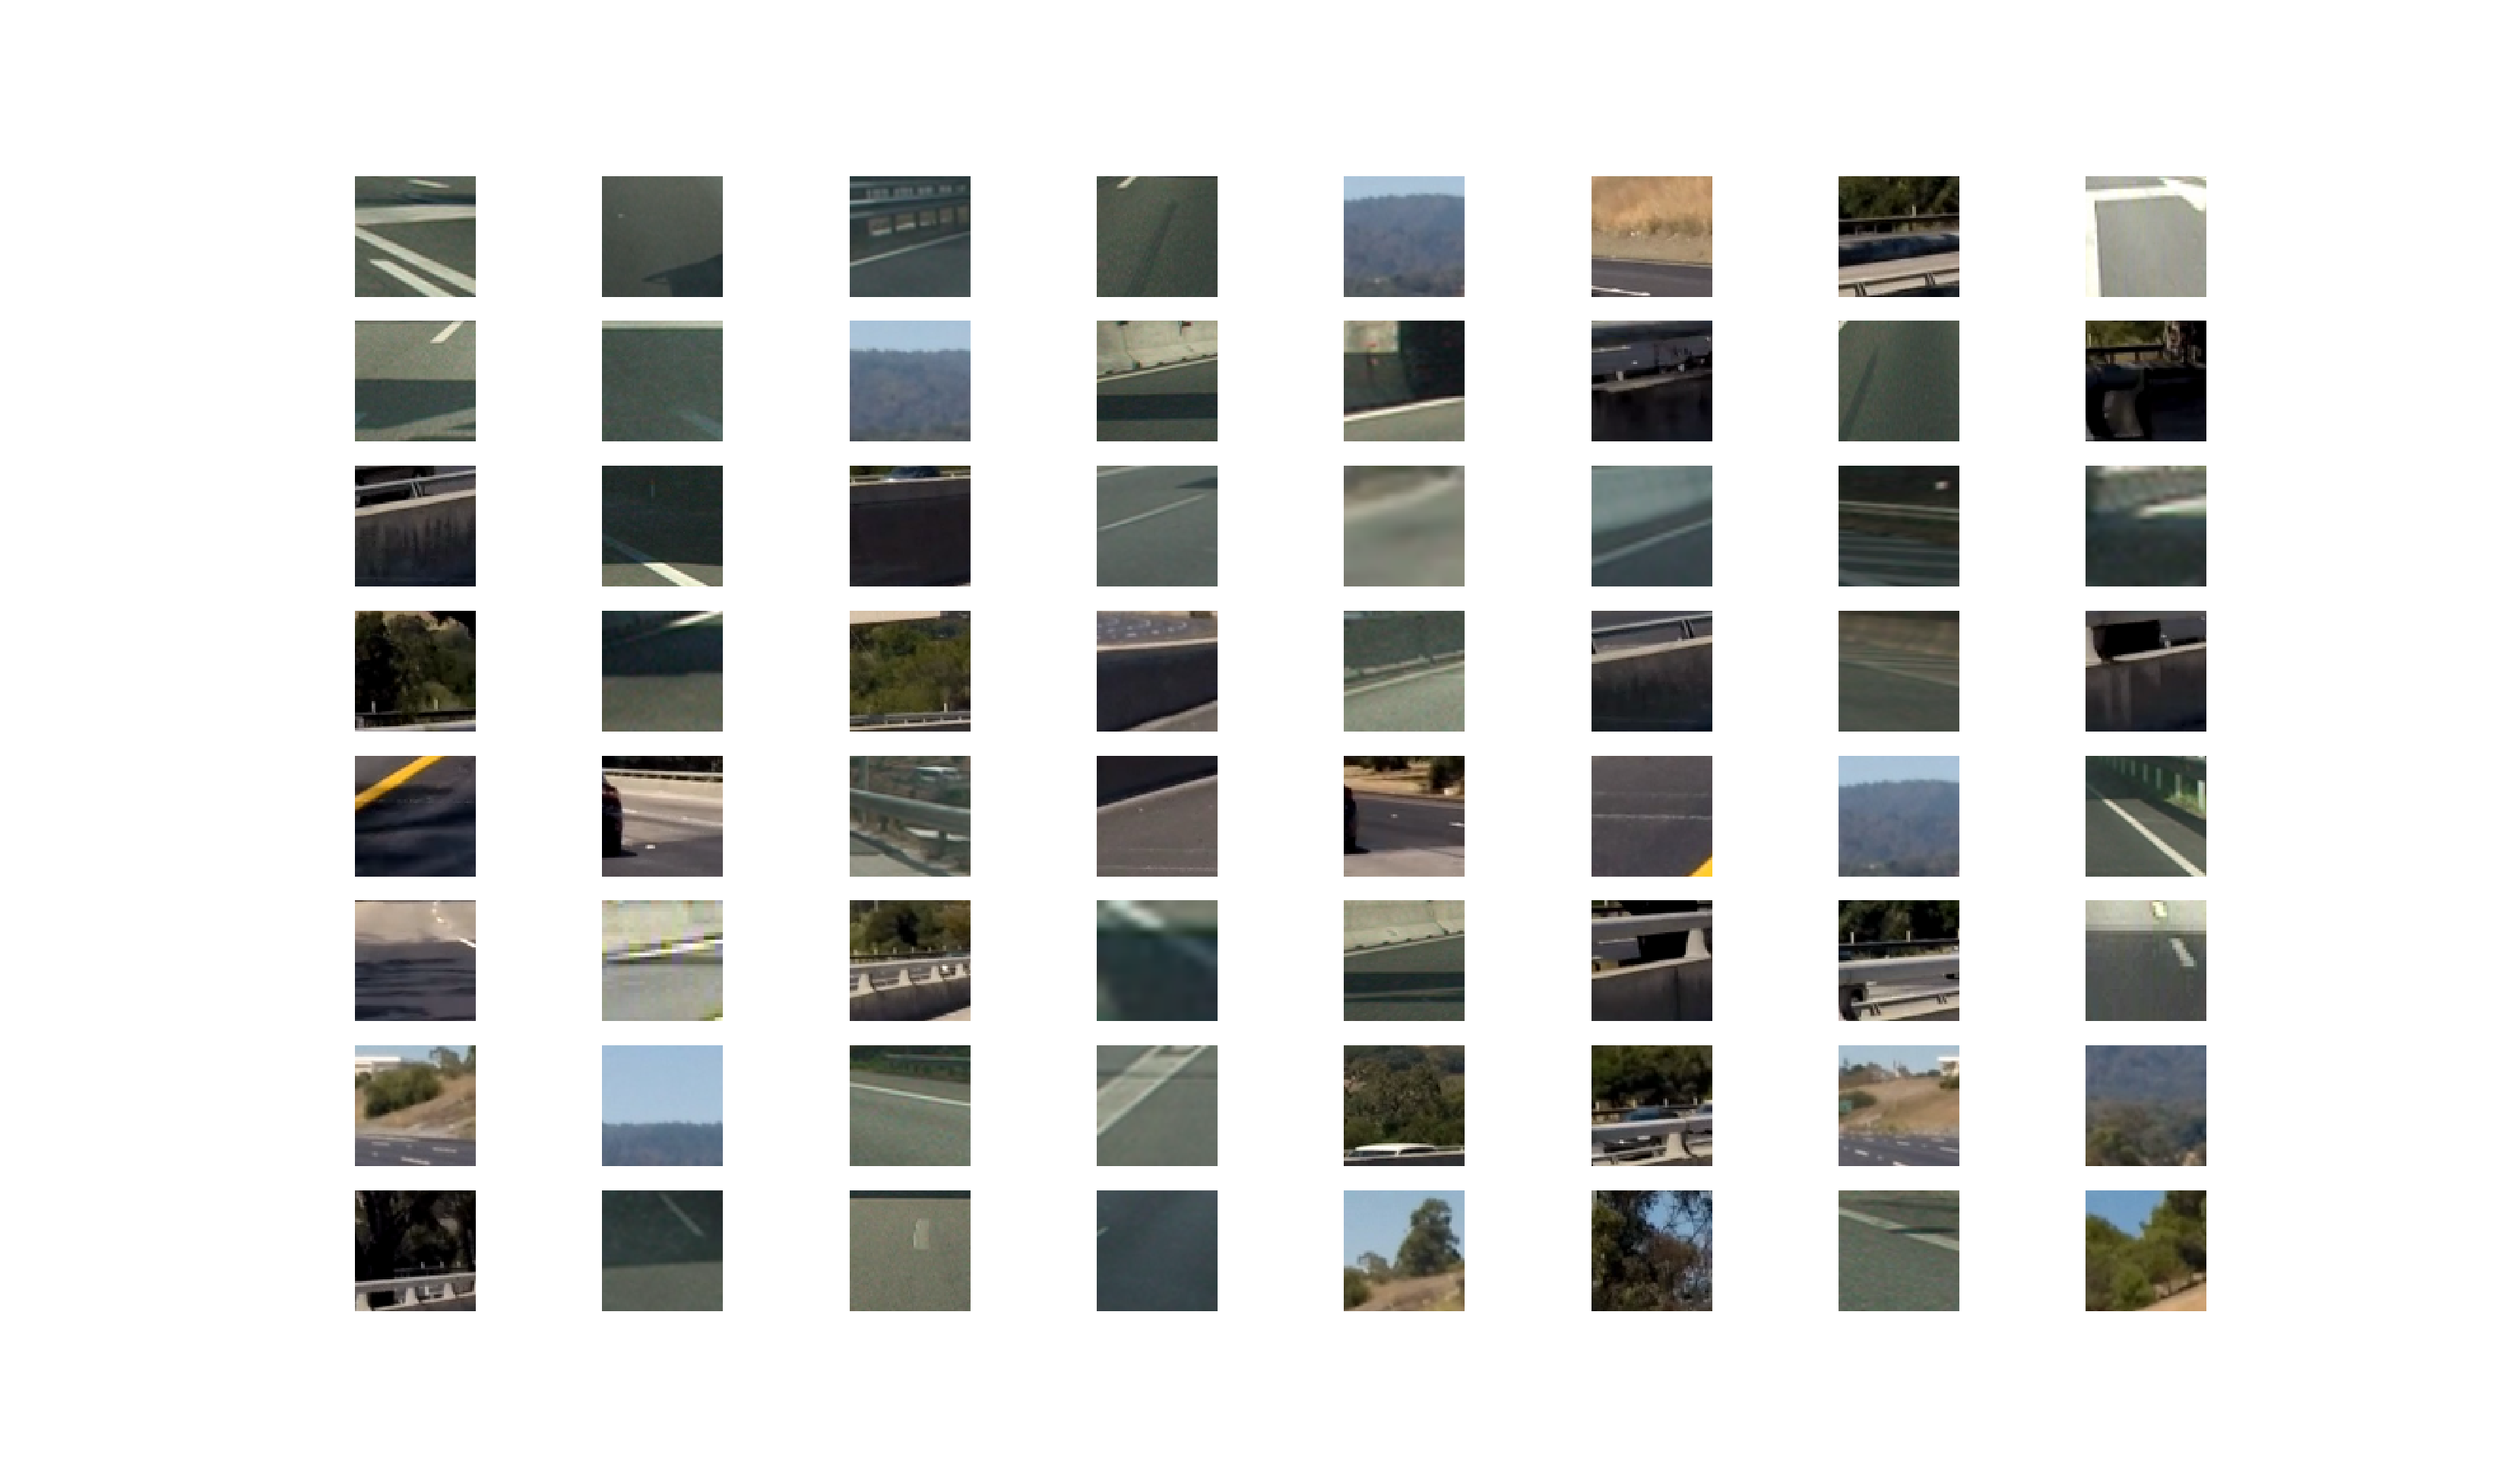
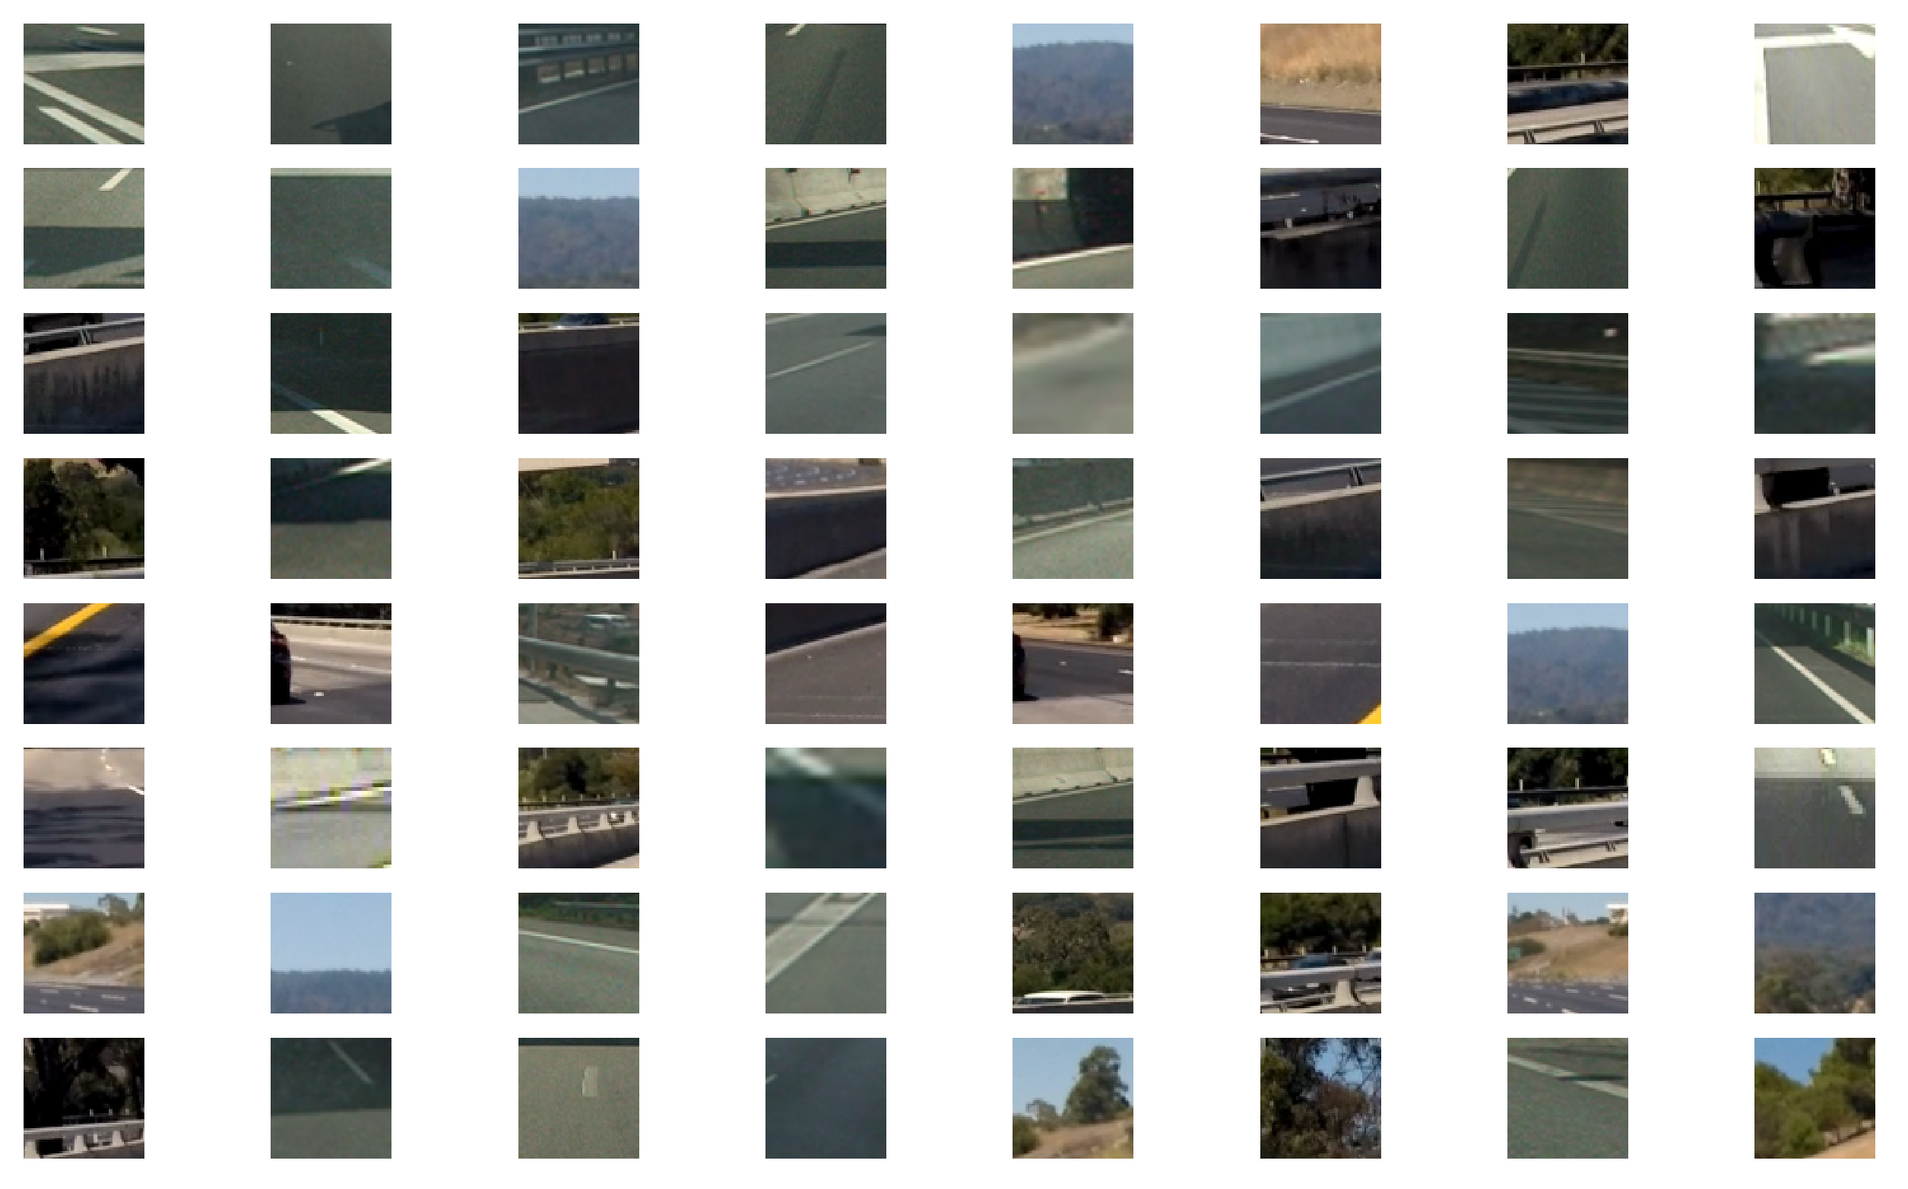
Change output images resolution, update readme file.

diff --git a/README.md b/README.md
@@ -1,39 +1,46 @@
 # Self-Driving Car Project: Vehicle Detection and Tracking
 
-In this project, I wrote a software pipeline to detect and track vehicles in a video.
+<center>
+<img src="output_images/Main.jpg" width="90%" alt="Vehicle Detection" />
+</center>
 
-The Project
----
+Hello there! I'm Babak. Let me introduce you to my project. In this project, I wrote a software pipeline to detect and track vehicles in a video. Using different training dataset and features to train the classifier; this algorithm can be used to detect and teack other objects such as pedestrains or cyclists. This project was written using Python object oriented programming.
+
+
+### Pipeline:
 
 The goals / steps of this project are the following:
 
-* Perform a Histogram of Oriented Gradients (HOG) feature extraction on a labeled training set of images and train a classifier Linear SVM classifier
-* Optionally, you can also apply a color transform and append binned color features, as well as histograms of color, to your HOG feature vector. 
-* Implement a sliding-window technique and use your trained classifier to search for vehicles in images.
-* Run your pipeline on a video stream and create a heat map of recurring detections frame by frame to reject outliers and follow detected vehicles.
+* Perform a Histogram of Oriented Gradients (HOG) feature extraction on a labeled training set of images 
+* Train a Linear Support Vector Machine (SVM) classifier on the HOG features. 
+* Implement a sliding-window technique and use the trained classifier to search for vehicles in images.
+* Run the pipeline on a video stream and create a heat map of recurring detections frame by frame to reject outliers and follow detected vehicles.
 * Estimate a bounding box for vehicles detected.
 
 ### The Dataset
 
-For this project, I used a labeled dataset of vehicles and non-vehicles to train my classifier. The data consists of a combination of 64x64 pixels images (8792 vehicles and 8968 non-vehicles) from GTI vehicle image database and KITTI vision benchmark suite. You can find the links to database here:
+For this project, I used a labeled dataset of vehicles and non-vehicles to train my classifier. The data consists of a combination of 64x64 pixels images (8792 vehicles and 8968 non-vehicles) from GTI vehicle image database and KITTI vision benchmark suite. You can see a random selection of the dataset below:
+
+Cars:
+<img src=output_images/Cars.png style="width: 100%;"/>
+
+Not cars:
+<img src=output_images/notCars.png style="width: 100%;"/>
+
+You can find the links to database here:
 
 -[GTI vehicle image database](http://www.gti.ssr.upm.es/data/Vehicle_database.html)
 
 -[KITTI vision benchmark suite](http://www.cvlibs.net/datasets/kitti/)
 
-Also, you can see a random selection of the dataset below:
+---
+### Pipeline (image)
 
-##### Cars:
-<img src=output_images/Cars.png />
-
-##### Not cars:
-<img src=output_images/notCars.png />
-
-### HOG Visualization
+#### 1. HOG Visualization
 
 <img src=output_images/HOGVis.png />
 
-### SVM Classification
+#### 2. SVM Classification
 
 Using: 9 orientations 8 pixels per cell and 2 cells per block
 
@@ -44,9 +51,24 @@ Test Accuracy of SVC =  0.9761
 My SVC predicts:  [ 1.  1.  1.  0.  1.  0.  0.  1.  1.  0.]
 For these 10 labels:  [ 1.  1.  1.  0.  1.  0.  0.  1.  1.  0.]
 
-### Sliding Window Search
+#### 3. Sliding Window Search
 
 <img src=output_images/SlidingWindow1.png />
-<img src=output_images/SlidingWindow2.png />
 <img src=output_images/SlidingWindow3.png />
 <img src=output_images/SlidingWindow4.png />
+
+#### 4. Heatmap
+
+<img src=output_images/heat.png />
+
+---
+
+### Pipeline (video)
+
+#### 1. Final video output 
+
+Here's a [link to my video result](./project_video_output.mp4) 
+
+---
+
+### Discussion on making the pipeline more robust?
